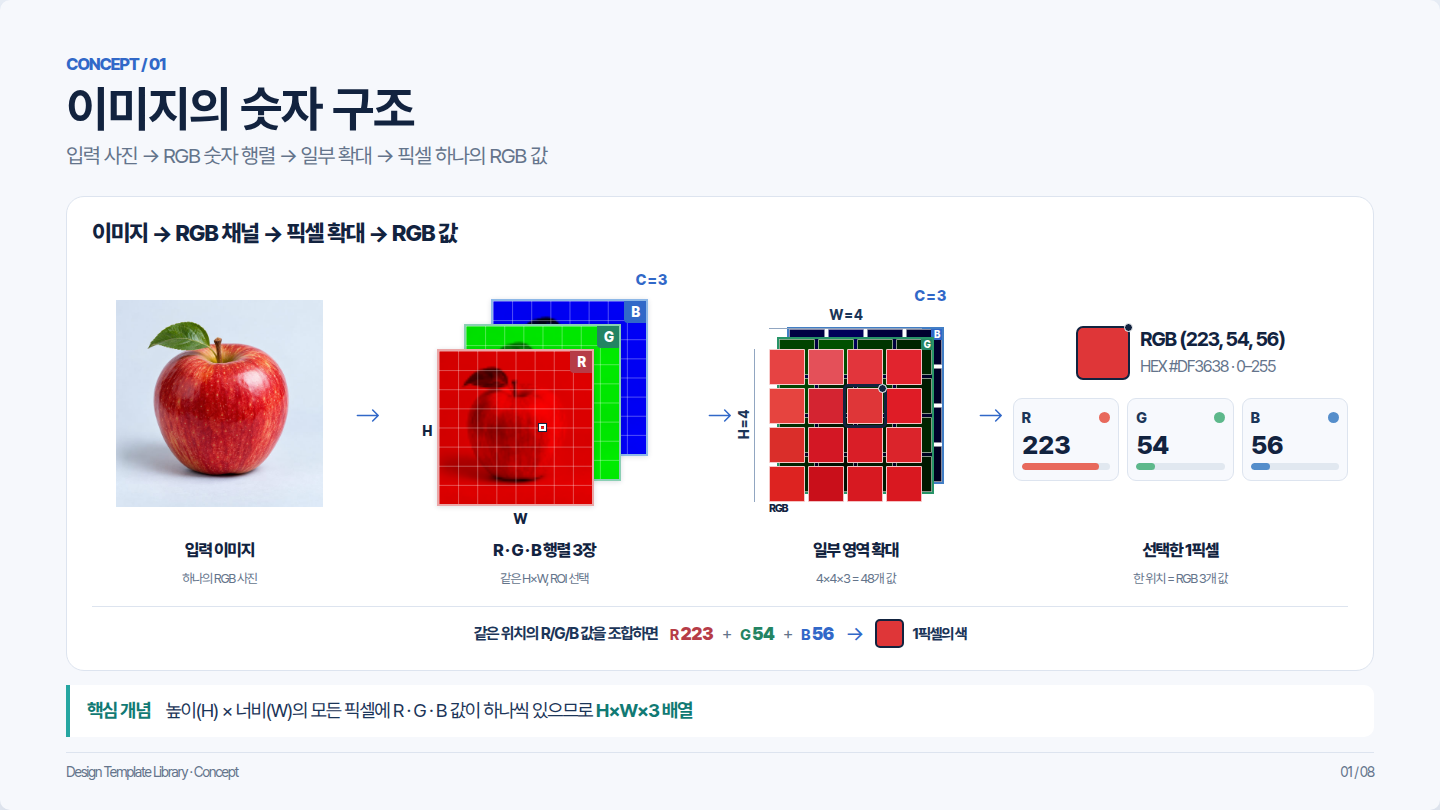
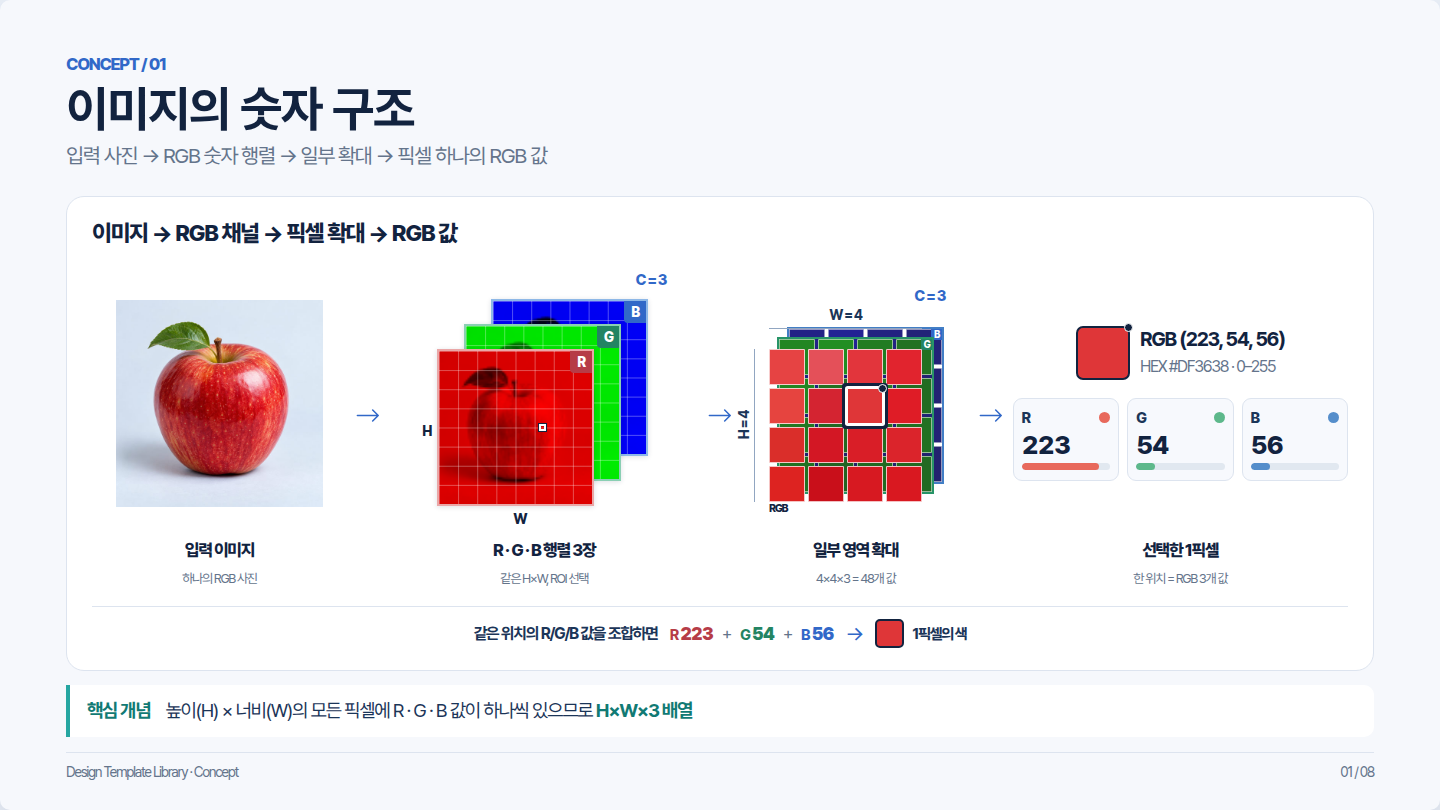
chore(concept): commit verified Chromium preview and axis measurements

Changed region(s): [[0.5312, 0.4012, 0.6562, 0.6173]]

diff --git a/scripts/validate_references.py b/scripts/validate_references.py
@@ -273,7 +273,16 @@ def check_concept(page):
             'crop_channel_depth':3,'crop_stack_order':['B','G','RGB'],
             'crop_rgb_16_match':True,'crop_g_16_match':True,
             'crop_b_16_match':True,'merge_uses_same_rgb':True,
-            'shape':'H×W×3','patch_values':48,'matrix_roi_normalized':r['matrixROI']}
+            'shape':'H×W×3','patch_values':48,'matrix_roi_normalized':r['matrixROI'],
+            'guide_alignment_px':{
+                'w_left':round(r['wGuide']['x']-r['pixelGrid']['x'],3),
+                'w_right':round(r['wGuide']['right']-r['pixelGrid']['right'],3),
+                'h_top':round(r['hGuide']['y']-r['pixelGrid']['y'],3),
+                'h_bottom':round(r['hGuide']['bottom']-r['pixelGrid']['bottom'],3),
+                'w_label_center':round(r['wGuideText']['cx']-r['pixelGrid']['cx'],3),
+                'h_label_center':round(r['hGuideText']['cy']-r['pixelGrid']['cy'],3)},
+            'crop_display_base':34,'crop_display_formula':'Math.round(90 + v * 0.65)',
+            'selected_halo_px':2,'selected_navy_outline_px':5}
 
 def check_motif(page,name):
     points=[0,1,63,64,65,32*64+32,4095]
@@ -447,13 +456,5 @@ def main(argv=None):
         report_path.write_text(json.dumps(report,ensure_ascii=False,indent=2)+'\n')
         if len(args.templates)==8 and report_path.name=='reference-validation.json':write_compatibility_reports(report)
     print(f'PASS {len(report["cases"])} final-source viewports; report: {report_path}')
-    # Temporary CI handoff of the generated binary preview (removed in next commit).
-    import base64,os
-    if os.environ.get('GITHUB_ACTIONS')=='true':
-        encoded=base64.b64encode(
-            (ROOT/'previews/html-concept.png').read_bytes()).decode('ascii')
-        for i in range(0,len(encoded),4096):
-            print('CONCEPT_PREVIEW_B64='+encoded[i:i+4096],flush=True)
-
 
 if __name__=='__main__':main()
